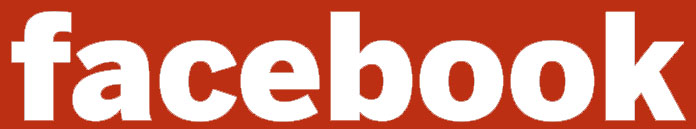
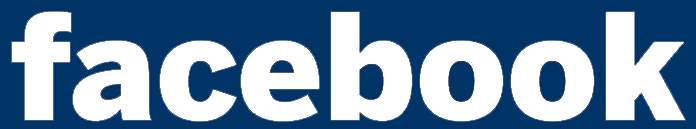
Final Pt 2..

diff --git a/hackathon_test.css b/hackathon_test.css
@@ -1,5 +1,5 @@
 body {
-	background:black;
+	background:	 #6699CC;
 }
 
 #content {
@@ -10,7 +10,7 @@ body {
 	margin-top:22px;
 	height: 700px;
 	padding: 5px;
-	background: #bd2f13;
+	background: #003366;
 	border-radius: 15px;
 	overflow-y:scroll;
 }
@@ -21,6 +21,10 @@ body {
 
 .align {
 	margin-left:100px;
+}
+
+.popcorn {
+	margin-left:0px;
 }
 
 .align-social-header {
@@ -36,7 +40,7 @@ body {
 }
 
 .socialf {
-	margin-left:20px;
+	margin-left:5px;
 }
 
 #sidebar-genre {
@@ -47,7 +51,7 @@ body {
 	margin-top:22px;
 	height: 700px;
 	padding: 5px;
-	background: #bd2f13;
+	background: #003366;
 	border-radius: 15px;
 	overflow-y:scroll;
 }
@@ -60,14 +64,14 @@ body {
 	margin-top:22px;
 	height: 700px;
 	padding: 5px;
-	background: #bd2f13;
+	background: #003366;
 	border-radius: 15px;
 	overflow-y:scroll;
 }
 
 img.myimageclass {
- 	width: 10em;
- 	height: 4em;
+ 	width: 12em;
+ 	height: 3em;
  }
  
  img.socialheader {
@@ -79,4 +83,9 @@ img.genreheader {
  	width: 10em;
  	height: 3em;
  }
+ 
+img.popcornbox {
+ 	width: 40em;
+ 	height: 30em;
+ } 
  

diff --git a/hackathon_home.html b/hackathon_home.html
@@ -11,6 +11,7 @@
 </div>
 
 <!-- Put the following javascript before the closing </head> tag. -->
+<!-- Put the following javascript before the closing </head> tag. -->
 <script>
   (function() {
     var cx = '004461211522308811956:cbsrrlswngg';
@@ -24,6 +25,9 @@
 <!-- Place this tag where you want both of the search box and the search results to render -->
 <gcse:search></gcse:search>
 <div class="clips">
+<div class="popcorn">
+<img src="popcorn.png" class="popcornbox"/>
+</div>
 </div>
 </div>
 

diff --git a/hackathon_comedy.html b/hackathon_comedy.html
@@ -11,6 +11,7 @@
 </div>
 
 <!-- Put the following javascript before the closing </head> tag. -->
+<!-- Put the following javascript before the closing </head> tag. -->
 <script>
   (function() {
     var cx = '004461211522308811956:cbsrrlswngg';

diff --git a/hackathon_romance.html b/hackathon_romance.html
@@ -11,6 +11,7 @@
 </div>
 
 <!-- Put the following javascript before the closing </head> tag. -->
+<!-- Put the following javascript before the closing </head> tag. -->
 <script>
   (function() {
     var cx = '004461211522308811956:cbsrrlswngg';
